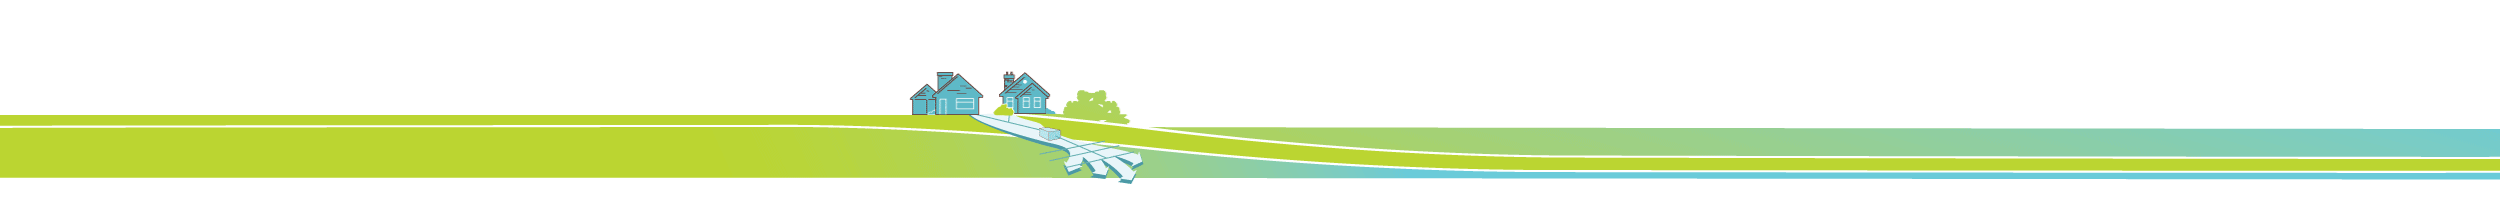
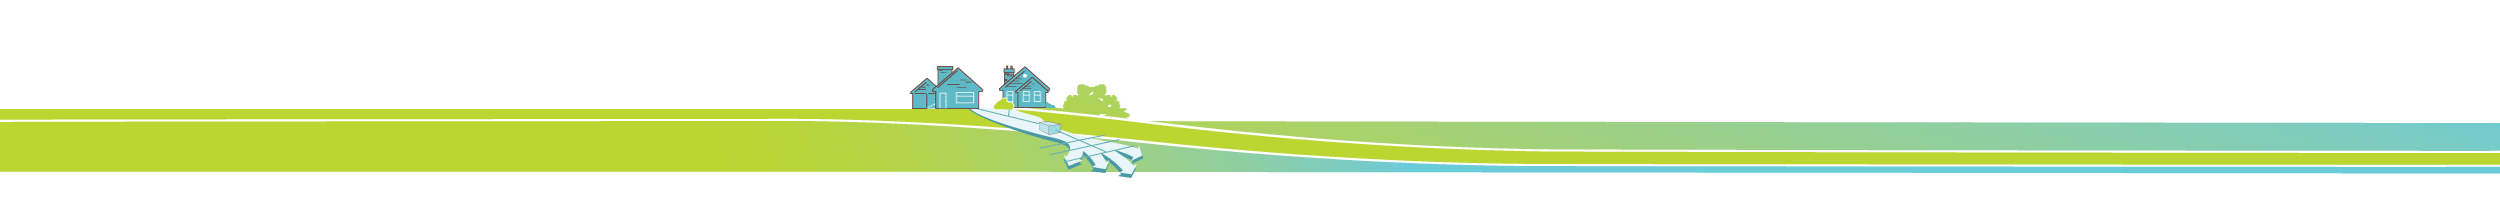
Not displaying default images always

Changed region(s): [[0.0, 0.3333, 1.0, 0.9394]]

diff --git a/css/main.css b/css/main.css
@@ -99,8 +99,9 @@ p
 /* HEADER ELEMENTS */
 #header_wrapper
 {
-  background:url(../media/site-images/header_bg.png);
-  background-position: 50% 0%;
+  background:url(../media/site-images/header_bg.png?3);
+  background-position: 50% -2px;
+  background-repeat: no-repeat;
   font-family: 'Josefin Sans', Helvetica, Arial, sans-serif;
   font-weight:600;
   min-height:210px;
@@ -713,7 +714,7 @@ ul.square li
 
 #asterisk
 {
-	margin: 10px 285px 10px 0; 
+	margin: -14px 285px 10px 0; 
 	font-size: 17px; 
 	text-align: right;
 }
@@ -733,4 +734,4 @@ ul.square li
     z-index:10;
     background-image: url('../media/site-images/header_logo.png');
     background-position: 50% 0%;
-}
+} 

diff --git a/html/blocks/projects/print/helper_functions.php b/html/blocks/projects/print/helper_functions.php
@@ -70,9 +70,9 @@ function printQuestion($question, $spawnID)
 
     $answers = $answersClass->listParentAnswers($question['id']);
 
-    $currentQID = "";
+    $currentQID = "";   
     foreach ($answers as $answer)
-    {
+    {   
         $values = $answersClass->getUserAnswers($userID, $projectID, $answer['id'], $spawnID);
         if (!empty($values) || ($answer['type'] == "static" && $spawnID < 1))
         {
@@ -104,7 +104,15 @@ function printQuestion($question, $spawnID)
             }
         }
 	elseif ($answer['default'] == 1)
-		printAnswers($answer, $spawnID, 0);
+        {
+            // check if answers on the same level exist
+            foreach ($answers as $a)
+            {
+                $v = $answersClass->getUserAnswers($userID, $projectID, $a['id']);
+                if (!empty($v))
+                    printAnswers($answer, $spawnID, 0);
+            }
+        }
 
         $childrenAnswers = $answersClass->listChildren($answer['id']);
 
@@ -125,9 +133,15 @@ function printQuestion($question, $spawnID)
                     }
                 }
 		elseif ($child['default'] == 1)
-		    printAnswers($child, $spawnID, 0);
+                {
+                    // Verify that parent answer is checked
+                    $parentAnswer = $answersClass->getUserAnswers($userID, $projectID, $answer['id'], $spawnID, 0);
+
+                    if (!empty($parentAnswer))
+                        printAnswers($child, $spawnID, 0);
+                }
             }
-        }
+        } 
     }
 }
 
@@ -138,9 +152,9 @@ function printAnswers($answer, $spawnID, $otherID)
     $pdfOutput = $answer['pdfOutput'];
     $value = "";
     $imageAssigned = false;
-
+    
     preg_match_all("/%ID=[0-9]+%/", $pdfOutput, $ids);
-
+    
     if (count($ids[0]) > 0 )
     {
         foreach ($ids[0] as $id)
@@ -149,6 +163,12 @@ function printAnswers($answer, $spawnID, $otherID)
             $answerID = trim($id_arr[1], "%");
             $id_value = $answersClass->getUserAnswers($userID, $projectID, $answerID, $spawnID, $otherID);
 
+            if ($answerID = $answer['id'])
+            {
+                $pdfOutput = str_replace($id, "%SELF%", $pdfOutput);
+                break;
+            }
+            
             $value = $id_value[0]['value'];
 
             if (strstr($value, ".jpg") || strstr($value, ".jpeg") ||strstr($value, ".png") ||strstr($value, ".gif") ||strstr($value, ".tiff"))
@@ -204,6 +224,7 @@ function printAnswers($answer, $spawnID, $otherID)
         }
     }
 
+    /*
     preg_match_all("/@<.*>@/", $pdfOutput, $defaultImages);
     if(count($defaultImages[0]) > 0)
     {
@@ -219,6 +240,7 @@ function printAnswers($answer, $spawnID, $otherID)
             $pdfOutput = str_replace($defaultImages[0][0], "", $pdfOutput);
         }
     }
+    */
 
     $html .= "<div class='content'>".$pdfOutput."</div>";
 }

diff --git a/html/blocks/register.php b/html/blocks/register.php
@@ -22,7 +22,8 @@ if(isset($_POST['registersubmit']) && $_POST['registersubmit'] == "1")
   $image = $_POST['logoImage'];
 
   // Check if the user already exist
-  $username = addslashes($username);
+  //$username = addslashes($username);
+  $username = str_replace("'", "''", $username);
   $verifySQL = "SELECT * FROM users WHERE username = '$username'";
 
   $result = sqlsrv_query($database, $verifySQL);
@@ -35,8 +36,9 @@ if(isset($_POST['registersubmit']) && $_POST['registersubmit'] == "1")
     }
     else
     {
-        $sql = "INSERT INTO users (name,company_name,email,website,mailing_address,city,state,zip,phone_number,username,password,verify,company_logo) values ('$name','$company_name','$email','$website','$mailingAddress','$city','$state','$zip','$phoneNumber','$username','$password','$verify','$image')";
-        sqlsrv_query($database, $sql);
+        $sql = "INSERT INTO users (name,company_name,email,website,mailing_address,city,state,zip,phone_number,username,password,verify,company_logo,verbose, level,password_verify) values ('$name','$company_name','$email','$website','$mailingAddress','$city','$state','$zip','$phoneNumber','$username','$password','$verify','$image',0, '','')";
+        $result = sqlsrv_query($database, $sql);
+
 ?>
   <h2>Check Your Email To Activate Your Account</h2>
   <p>You must activate your account before you can begin using it.</p>
@@ -64,10 +66,10 @@ $mail->IsSMTP();
 $mail->CharSet = 'UTF-8';
 
 $mail->Host       = "relay.tc.umn.edu"; // SMTP server example
-$mail->SMTPSecure = "ssl";
+//$mail->SMTPSecure = "ssl";
 $mail->SMTPDebug  = 0;                     // enables SMTP debug information (for testing)
-$mail->SMTPAuth   = true;                  // enable SMTP authentication
-$mail->Port       = 465;                    // set the SMTP port for the GMAIL server
+//$mail->SMTPAuth   = true;                  // enable SMTP authentication
+//$mail->Port       = 465;                    // set the SMTP port for the GMAIL server
 
 $mail->From = "noreply@".substr(WS_URL,7,-1);
 $mail->FromName = "CSOG";

diff --git a/libs/classes/db.php b/libs/classes/db.php
@@ -52,7 +52,7 @@ class Db{
 		self::$last_query=$lastQuery=$sql;
 		$results= sqlsrv_query(self::$connection, $sql);
 		self::confirm_query($results);
-				
+                
 		if($returnObject==true){			
 			$resultArray=array();			
 			while ($result=sqlsrv_fetch_array($results, SQLSRV_FETCH_ASSOC)) {
@@ -89,15 +89,17 @@ class Db{
         public function escape($value){		
 		if(self::$real_escape_string_exists){ 
 			return mysqli_real_escape_string(self::$connection, $value); 
-		}	    
-		return addslashes($value);	
+		}	
+                //return addslashes($value);	
+		return str_replace("'", "''", $value);	
 	}
         
 	public static function escape_value($value){		
 		if(self::$real_escape_string_exists){ 
 			return mysqli_real_escape_string(self::$connection, $value); 
 		}	    
-		return addslashes($value);	
+		//return addslashes($value);	
+		return str_replace("'", "''", $value);	
 	}
 	
 	public static function fetch_array($result_set){

diff --git a/html/blocks/projects/view/helper_functions.php b/html/blocks/projects/view/helper_functions.php
@@ -25,7 +25,8 @@ function printAnswer($answer, $type, $value=null)
                 . "type='text' "
                 . "name='$namePrefix"."text_".$type."_{$answer['id']}' "
                 . "id='".$namePrefix.$type."_{$answer['id']}' "
-                . "value='$value' $questionType class='textbox form_question' />";
+                . "value=\"" . str_replace('"','&quot;',$value) . "\" $questionType class='textbox form_question' />";
+                //original: "value='$value' $questionType class='textbox form_question' />";
                 
             break;
         case "radio":

diff --git a/html/blocks/account/verify.php b/html/blocks/account/verify.php
@@ -1,13 +1,13 @@
 <?php
 
 $sql = "SELECT * FROM users WHERE verify = '$verifyCode'";
-$DBresult = $database->query($sql);
+$DBresult = sqlsrv_query($database, $sql);
 
-if ($DBresult->num_rows >= 1 && $verifyCode != "")
+if (sqlsrv_has_rows($DBresult) && $verifyCode != "")
 {
-  $userInfo = $DBresult->fetch_assoc();
+  $userInfo = sqlsrv_fetch_array($DBresult, SQLSRV_FETCH_ASSOC);
   $sql = "UPDATE users SET level = 1, verify = '' WHERE id = ". $userInfo['id'];
-  $database->query($sql);
+  sqlsrv_query($database, $sql);
   ?>
 
   <h2>Email Verification</h2>

diff --git a/index.php b/index.php
@@ -61,8 +61,11 @@ if (!$database) {
 
 $loginError = "";
 if (isset($_POST['user']) && isset($_POST['pass'])) {
-    $user = addslashes($_POST['user']);
-    $pass = addslashes(sha1($_POST['pass']));
+    //$user = addslashes($_POST['user']);
+    $user = str_replace("'", "''", $_POST['user']);
+    
+    //$pass = addslashes(sha1($_POST['pass']));
+    $pass = str_replace("'", "''", sha1($_POST['pass']));
 
     $sql = "SELECT * FROM users WHERE username = '$user' AND password = '$pass' AND level > 0";
     $statement = sqlsrv_query($database, $sql);

diff --git a/html/blocks/account/reset.php b/html/blocks/account/reset.php
@@ -3,8 +3,8 @@
 if($verifyCode != "")
 {
   $sql = "SELECT id FROM users WHERE password_verify = '$verifyCode'";
-  $result = $database->query($sql);
-  if($result->num_rows == 1)
+  $result = sqlsrv_query($database, $sql);
+  if(sqlsrv_has_rows($result))
   {
     ?>
 

diff --git a/libs/classes/answers.class.php b/libs/classes/answers.class.php
@@ -189,7 +189,7 @@ class Answers {
 
                 $id = $this->answersMappingTable->insert_by_sql($sql);
             }
-            
+
             return $id;
         }
     }
